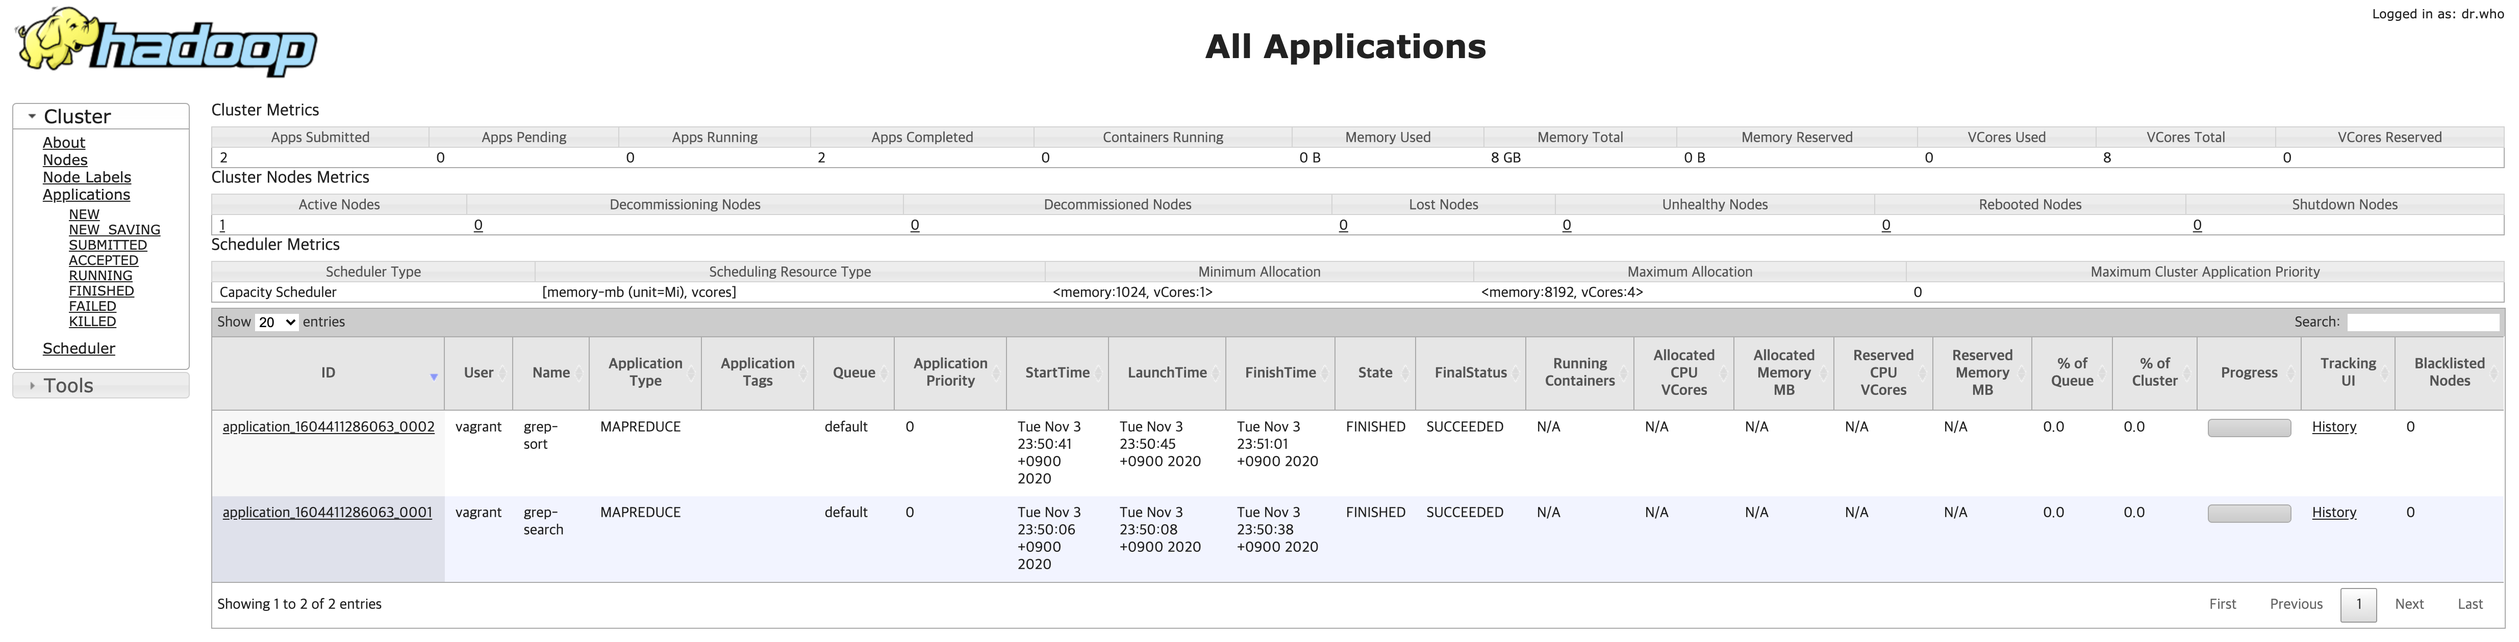
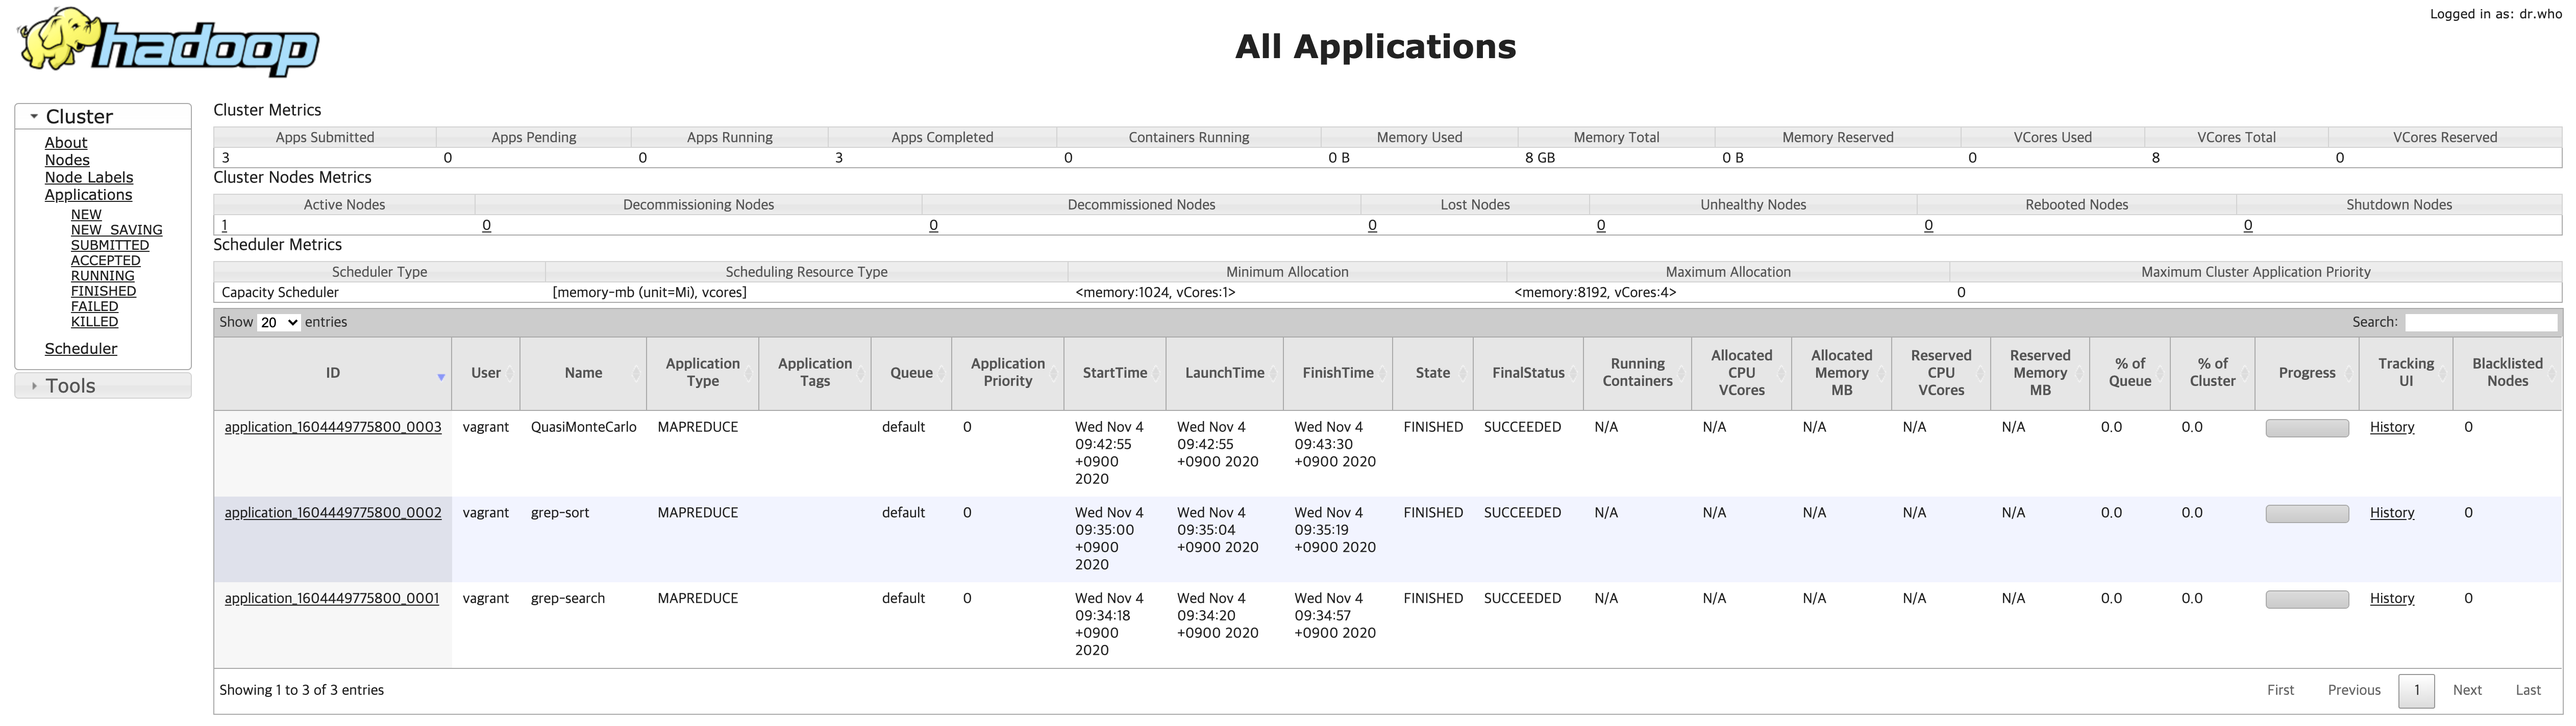
Add yarn example

diff --git a/README.md b/README.md
@@ -63,7 +63,7 @@ sudo su - hdfs -c '/etc/hadoop/bin/hdfs --daemon start namenode'
 ### HDFS 데이터노드 실행
 
 ```bash
-sudo /etc/hadoop/bin/hdfs --daemon start namenode
+sudo /etc/hadoop/bin/hdfs --daemon start datanode
 ```
 
 ### HDFS 파일시스템 설정
@@ -81,20 +81,15 @@ sudo su - hdfs -c '/etc/hadoop/bin/hdfs dfs -ls -R /'
 ```
 
 ```bash
-drwxrwxrwt   - mapred hadoop    0 2020-11-03 09:09 /mr-history
-drwxr-x---   - mapred hadoop    0 2020-11-03 09:09 /mr-history/done
-drwxrwxrwt   - mapred hadoop    0 2020-11-03 09:09 /mr-history/tmp
-drwxrwxrwt   - hdfs   hadoop    0 2020-11-03 13:49 /tmp
-drwxrwx---   - mapred hadoop    0 2020-11-03 13:49 /tmp/hadoop-yarn
-drwxrwx---   - mapred hadoop    0 2020-11-03 13:49 /tmp/hadoop-yarn/staging
-drwxrwx---   - mapred hadoop    0 2020-11-03 13:49 /tmp/hadoop-yarn/staging/history
-drwxrwx---   - mapred hadoop    0 2020-11-03 13:49 /tmp/hadoop-yarn/staging/history/done
-drwxrwxrwt   - mapred hadoop    0 2020-11-03 13:49 /tmp/hadoop-yarn/staging/history/done_intermediate
-drwxrwxrwt   - yarn   hadoop    0 2020-11-03 09:08 /tmp/logs
-drwxr-xr-x   - hdfs   hadoop    0 2020-11-03 09:08 /user
-drwx------   - hdfs   hadoop    0 2020-11-03 09:08 /user/hdfs
-drwx------   - mapred hadoop    0 2020-11-03 09:08 /user/mapred
-drwx------   - yarn   hadoop    0 2020-11-03 09:08 /user/yarn
+drwxrwxrwt   - mapred hadoop          0 2020-11-04 00:29 /mr-history
+drwxr-x---   - mapred hadoop          0 2020-11-04 00:29 /mr-history/done
+drwxrwxrwt   - mapred hadoop          0 2020-11-04 00:29 /mr-history/tmp
+drwxrwxrwt   - hdfs   hadoop          0 2020-11-04 00:28 /tmp
+drwxrwxrwt   - yarn   hadoop          0 2020-11-04 00:28 /tmp/logs
+drwxr-xr-x   - hdfs   hadoop          0 2020-11-04 00:28 /user
+drwx------   - hdfs   hadoop          0 2020-11-04 00:28 /user/hdfs
+drwx------   - mapred hadoop          0 2020-11-04 00:28 /user/mapred
+drwx------   - yarn   hadoop          0 2020-11-04 00:28 /user/yarn
 ```
 
 ### YARN 리소스매니저 실행
@@ -120,7 +115,7 @@ sudo su - mapred -c '/etc/hadoop/bin/mapred --daemon start historyserver'
 ## 실행 중인 서버 목록
 
 ```bash
-jps # Java Virtual Machine Process Status Tool
+sudo jps # Java Virtual Machine Process Status Tool
 ```
 
 ```bash
@@ -146,8 +141,8 @@ jps # Java Virtual Machine Process Status Tool
 
 ## 테스트
 
-1. 권한 없는 HDFS 접근
-1. 권한 획득
+1. 권한 없이 HDFS 접근
+1. 사용자 인증
 1. HDFS 접근
 1. MapReduce 작업 실행
 1. 결과 확인
@@ -159,7 +154,7 @@ export HADOOP_HOME=/etc/hadoop
 export PATH=$PATH:$HADOOP_HOME/bin
 ```
 
-### HDFS 접근 확인
+### HDFS 접근 에러 확인
 
 `vagrant` 유저는 HDFS에 접근할 수 없다.
 
@@ -184,14 +179,14 @@ sudo su - hdfs -c '/etc/hadoop/bin/hdfs dfs -chmod 700 /user/vagrant'
 
 ```bash
 sudo kadmin -p admin/admin -w password -q 'addprinc -pw password vagrant/my.example.com@EXAMPLE.COM'
-sudo kadmin -p admin/admin -w password -q 'ktadd -k /home/vagrant/vagrant.keytab vagrant/my.example.com@EXAMPLE.COM'
-sudo chown vagrant:vagrant /home/vagrant/vagrant.keytab
 ```
 
 ### Kerberos 티켓 생성
 
 ```bash
-kinit -k -t /home/vagrant/vagrant.keytab vagrant/my.example.com@EXAMPLE.COM
+kinit vagrant/my.example.com@EXAMPLE.COM
+
+Password for vagrant/my.example.com@EXAMPLE.COM: password
 ```
 
 ### Kerberos 티켓 확인
@@ -204,9 +199,9 @@ klist
 Ticket cache: FILE:/tmp/krb5cc_1000
 Default principal: vagrant/my.example.com@EXAMPLE.COM
 
-Valid starting     Expires            Service principal
-11/03/20 14:37:44  11/04/20 02:37:44  krbtgt/EXAMPLE.COM@EXAMPLE.COM
-	renew until 11/04/20 14:37:44
+Valid starting       Expires              Service principal
+11/04/2020 00:32:15  11/04/2020 12:32:15  krbtgt/EXAMPLE.COM@EXAMPLE.COM
+        renew until 11/05/2020 00:32:15
 ```
 
 ### HDFS 접근 확인
@@ -216,21 +211,21 @@ hdfs dfs -ls -R /
 ```
 
 ```bash
-drwxrwxrwt   - mapred hadoop          0 2020-11-03 09:09 /mr-history
-drwxr-x---   - mapred hadoop          0 2020-11-03 09:09 /mr-history/done
+drwxrwxrwt   - mapred hadoop          0 2020-11-04 00:29 /mr-history
+drwxr-x---   - mapred hadoop          0 2020-11-04 00:29 /mr-history/done
 ls: Permission denied: user=vagrant, access=READ_EXECUTE, inode="/mr-history/done":mapred:hadoop:drwxr-x---
-drwxrwxrwt   - mapred hadoop          0 2020-11-03 09:09 /mr-history/tmp
-drwxrwxrwt   - hdfs   hadoop          0 2020-11-03 13:49 /tmp
-drwxrwx---   - mapred hadoop          0 2020-11-03 13:49 /tmp/hadoop-yarn
+drwxrwxrwt   - mapred hadoop          0 2020-11-04 00:29 /mr-history/tmp
+drwxrwxrwt   - hdfs   hadoop          0 2020-11-04 00:31 /tmp
+drwxrwx---   - mapred hadoop          0 2020-11-04 00:31 /tmp/hadoop-yarn
 ls: Permission denied: user=vagrant, access=READ_EXECUTE, inode="/tmp/hadoop-yarn":mapred:hadoop:drwxrwx---
-drwxrwxrwt   - yarn   hadoop          0 2020-11-03 09:08 /tmp/logs
-drwxr-xr-x   - hdfs   hadoop          0 2020-11-03 14:19 /user
-drwx------   - hdfs    hadoop          0 2020-11-03 09:08 /user/hdfs
+drwxrwxrwt   - yarn   hadoop          0 2020-11-04 00:28 /tmp/logs
+drwxr-xr-x   - hdfs   hadoop          0 2020-11-04 00:31 /user
+drwx------   - hdfs    hadoop          0 2020-11-04 00:28 /user/hdfs
 ls: Permission denied: user=vagrant, access=READ_EXECUTE, inode="/user/hdfs":hdfs:hadoop:drwx------
-drwx------   - mapred  hadoop          0 2020-11-03 09:08 /user/mapred
+drwx------   - mapred  hadoop          0 2020-11-04 00:28 /user/mapred
 ls: Permission denied: user=vagrant, access=READ_EXECUTE, inode="/user/mapred":mapred:hadoop:drwx------
-drwx------   - vagrant hadoop          0 2020-11-03 14:19 /user/vagrant
-drwx------   - yarn    hadoop          0 2020-11-03 09:08 /user/yarn
+drwx------   - vagrant hadoop          0 2020-11-04 00:31 /user/vagrant
+drwx------   - yarn    hadoop          0 2020-11-04 00:28 /user/yarn
 ls: Permission denied: user=vagrant, access=READ_EXECUTE, inode="/user/yarn":yarn:hadoop:drwx------
 ```
 
@@ -247,13 +242,23 @@ hdfs dfs -copyFromLocal $HADOOP_HOME/etc/hadoop/*.xml input
 hdfs dfs -ls /user/vagrant/input
 ```
 
-### 맵리듀스 작업 실행
-
-작업 디렉터리 권한 추가:
+### 작업 디렉터리 권한 추가
 
 ```bash
 sudo su - hdfs -c '/etc/hadoop/bin/hdfs dfs -chmod -R 777 /tmp/hadoop-yarn'
 ```
+
+---
+
+## 맵리듀스 예제
+
+### 테스트 목록
+
+```bash
+hadoop jar $HADOOP_HOME/share/hadoop/mapreduce/hadoop-mapreduce-examples-3.3.0.jar
+```
+
+### 예제 실행
 
 맵리듀스 예제 실행
 
@@ -266,41 +271,40 @@ grep input output 'dfs[a-z.]+'
 #### 실행 로그
 
 ```log
-2020-11-03 14:50:04,558 INFO client.DefaultNoHARMFailoverProxyProvider: Connecting to ResourceManager at /0.0.0.0:8032
-2020-11-03 14:50:04,845 INFO hdfs.DFSClient: Created token for vagrant: HDFS_DELEGATION_TOKEN owner=vagrant/my.example.com@EXAMPLE.COM, renewer=yarn, realUser=, issueDate=1604415004831, maxDate=1605019804831, sequenceNumber=3, masterKeyId=4 on 192.168.9.100:9000
+2020-11-04 00:34:16,786 INFO client.DefaultNoHARMFailoverProxyProvider: Connecting to ResourceManager at /0.0.0.0:8032
+2020-11-04 00:34:17,113 INFO hdfs.DFSClient: Created token for vagrant: HDFS_DELEGATION_TOKEN owner=vagrant/my.example.com@EXAMPLE.COM, renewer=yarn, realUser=, issueDate=1604450057092, maxDate=1605054857092, sequenceNumber=1, masterKeyId=2 on 192.168.9.100:9000
 ```
 
 ```log
-2020-11-03 14:50:07,437 INFO mapreduce.Job: Running job: job_1604411286063_0001
-2020-11-03 14:50:15,688 INFO mapreduce.Job: Job job_1604411286063_0001 running in uber mode : false
-2020-11-03 14:50:15,689 INFO mapreduce.Job:  map 0% reduce 0%
-2020-11-03 14:50:27,950 INFO mapreduce.Job:  map 60% reduce 0%
-2020-11-03 14:50:37,062 INFO mapreduce.Job:  map 80% reduce 0%
-2020-11-03 14:50:38,078 INFO mapreduce.Job:  map 100% reduce 100%
-2020-11-03 14:50:40,098 INFO mapreduce.Job: Job job_1604411286063_0001 completed successfully
+2020-11-04 00:35:01,108 INFO mapreduce.Job: Running job: job_1604449775800_0002
+2020-11-04 00:35:11,295 INFO mapreduce.Job: Job job_1604449775800_0002 running in uber mode : false
+2020-11-04 00:35:11,296 INFO mapreduce.Job:  map 0% reduce 0%
+2020-11-04 00:35:16,356 INFO mapreduce.Job:  map 100% reduce 0%
+2020-11-04 00:35:20,395 INFO mapreduce.Job:  map 100% reduce 100%
+2020-11-04 00:35:21,411 INFO mapreduce.Job: Job job_1604449775800_0002 completed successfully
 ```
 
 ```log
 Map-Reduce Framework
-		Map input records=19
-		Map output records=19
-		Map output bytes=701
-		Map output materialized bytes=745
-		Input split bytes=137
-		Combine input records=0
-		Combine output records=0
-		Reduce input groups=2
-		Reduce shuffle bytes=745
-		Reduce input records=19
-		Reduce output records=19
-		Spilled Records=38
-		Shuffled Maps =1
-		Failed Shuffles=0
-		Merged Map outputs=1
-	File Input Format Counters 
-		Bytes Read=939
-	File Output Format Counters 
-		Bytes Written=587
+    Map input records=19
+    Map output records=19
+    Map output bytes=701
+    Map output materialized bytes=745
+    Input split bytes=138
+    Combine input records=0
+    Combine output records=0
+    Reduce input groups=2
+    Reduce shuffle bytes=745
+    Reduce input records=19
+    Reduce output records=19
+    Spilled Records=38
+    Shuffled Maps =1
+    Failed Shuffles=0
+    Merged Map outputs=1
+File Input Format Counters 
+    Bytes Read=939
+File Output Format Counters 
+    Bytes Written=587
 ```
 
 ### 결과 확인
@@ -313,8 +317,8 @@ hdfs dfs -ls output
 
 ```bash
 Found 2 items
--rw-r--r--   1 vagrant hadoop          0 2020-11-03 14:51 output/_SUCCESS
--rw-r--r--   1 vagrant hadoop        587 2020-11-03 14:50 output/part-r-00000
+-rw-r--r--   1 vagrant hadoop          0 2020-11-04 00:35 output/_SUCCESS
+-rw-r--r--   1 vagrant hadoop        587 2020-11-04 00:35 output/part-r-00000
 ```
 
 #### 맵리듀스 결과 파일
@@ -345,12 +349,37 @@ hdfs dfs -cat output/*
 1	dfs.block.access.token.enable
 ```
 
-### Web Interface 확인
+---
 
-#### ResourceManager
+## Yarn 예제
+
+### 환경변수 설정
+
+```bash
+export YARN_EXAMPLES=/etc/hadoop/share/hadoop/mapreduce
+```
+
+### Pi 계산 예제
+
+```bash
+yarn jar $HADOOP_HOME/share/hadoop/mapreduce/hadoop-mapreduce-examples-3.3.0.jar pi 16 100000
+```
+
+### 결과
+
+```bash
+Job Finished in 39.101 seconds
+Estimated value of Pi is 3.14157500000000000000
+```
+
+---
+
+## Web Interface 확인
+
+### ResourceManager
 
 ![](images/ResourceManager.png)
 
-#### JobHistory
+### JobHistory
 
 ![](images/JobHistory.png)
